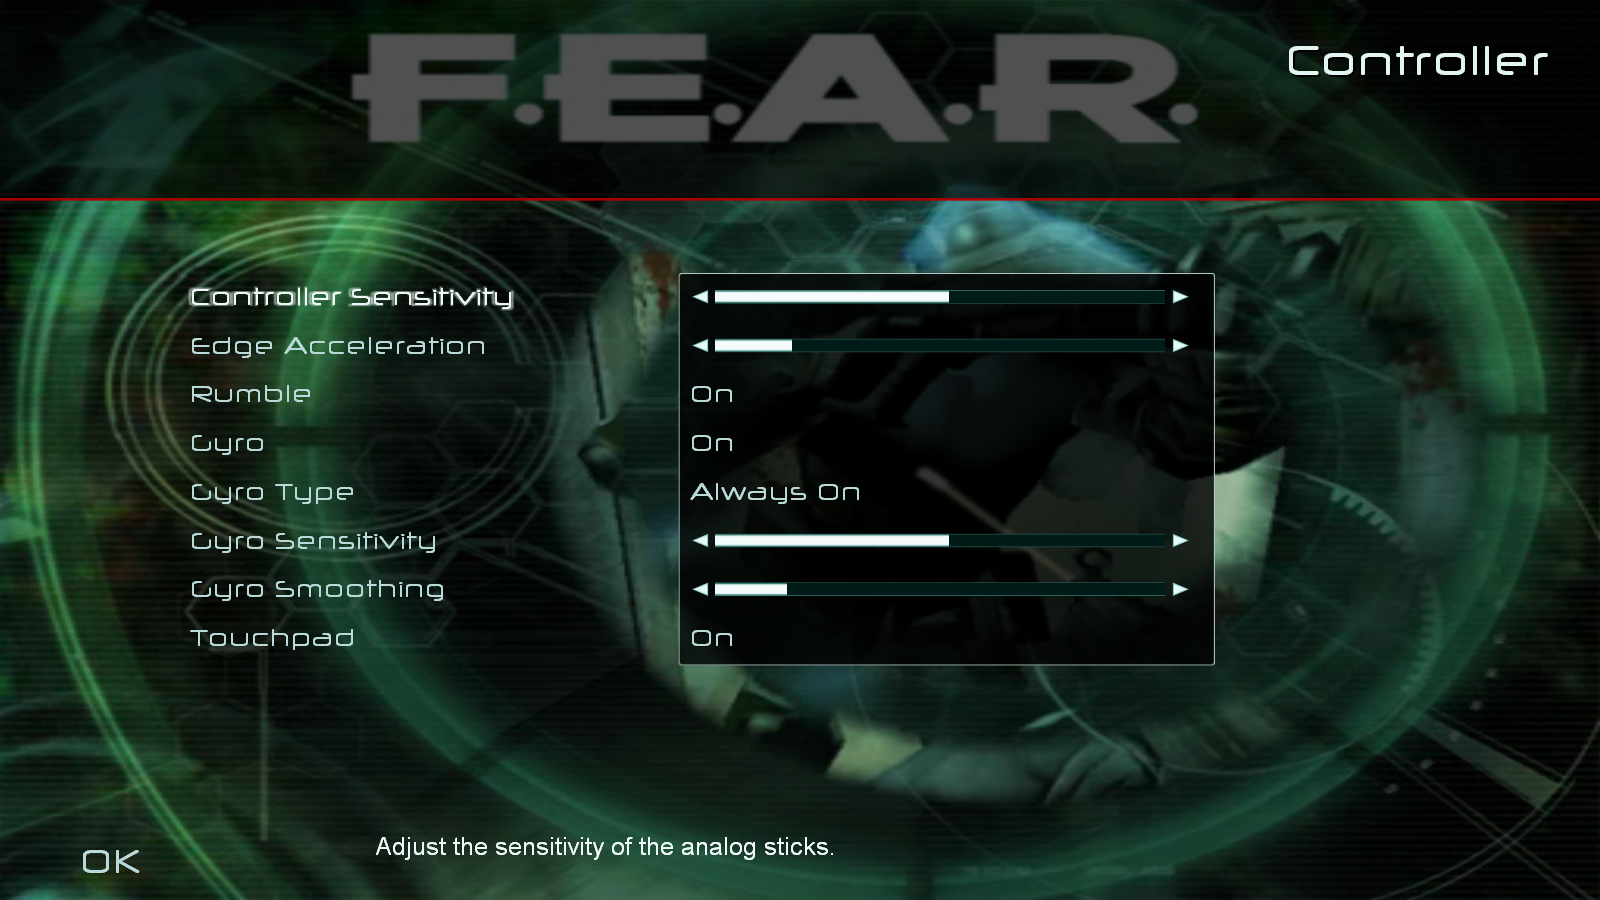
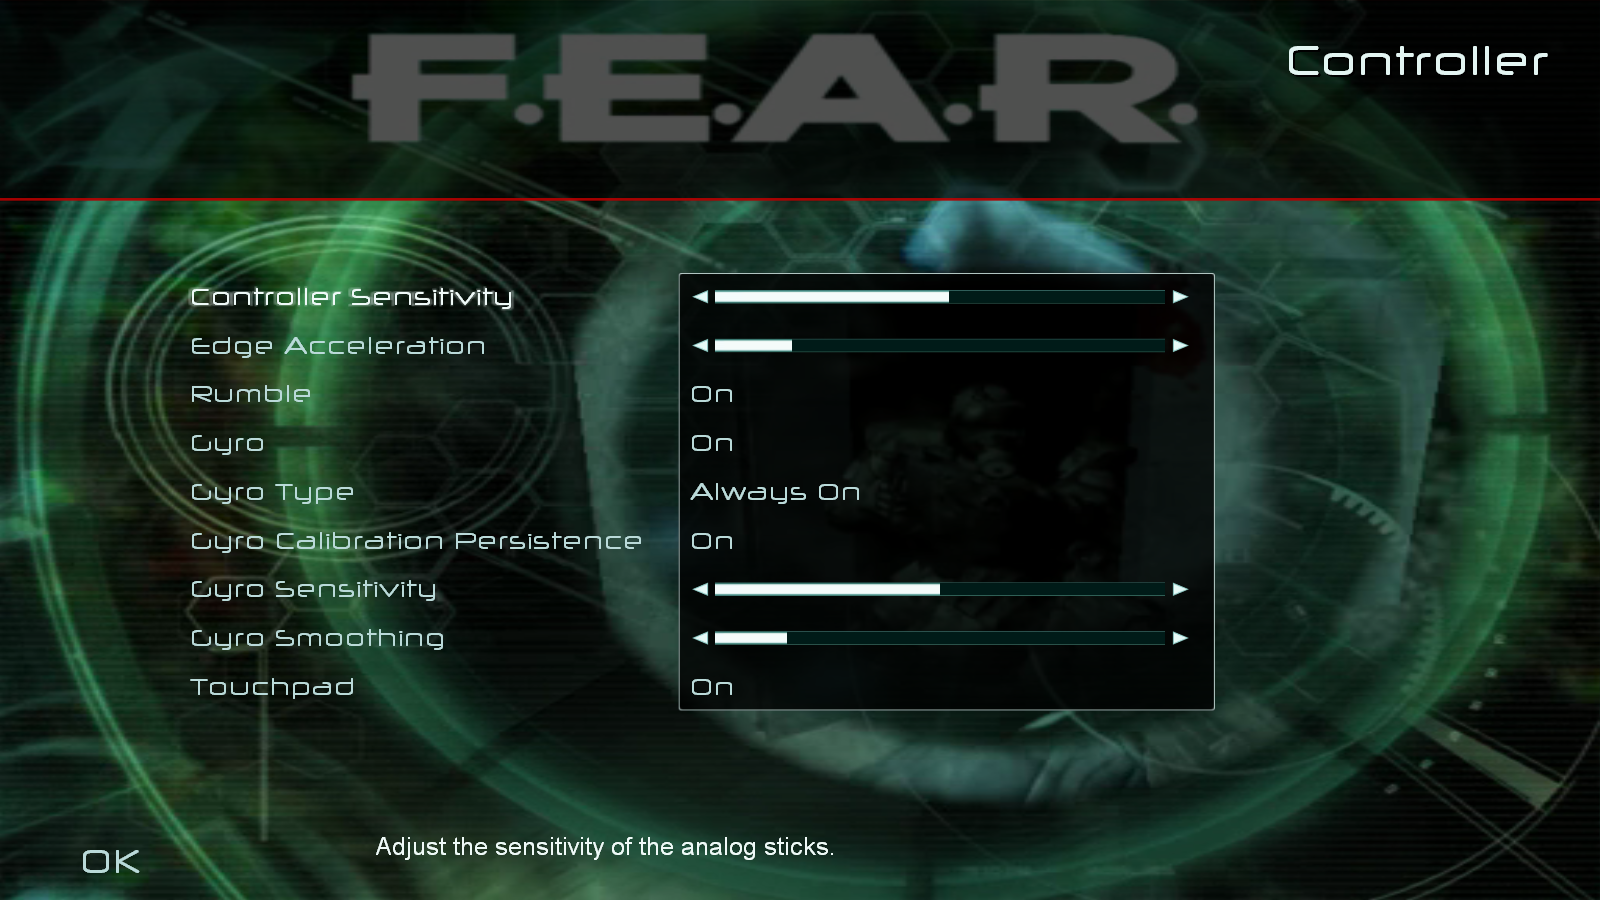
Add GyroCalibrationPersistence to ScreenJoystickHook

diff --git a/src/Client/Client.cpp b/src/Client/Client.cpp
@@ -1050,6 +1050,17 @@ static void __fastcall CycleCtrlSetSelIndex_Hook(int thisPtr, int, unsigned __in
 				IniHelper::Save();
 			}
 		}
+		else if (nameHash == HashHelper::StringHashes::IDS_HELP_GYRO_PERSISTENCE_ENABLED)
+		{
+			bool newValue = (index == 1);
+			if (newValue != GyroCalibrationPersistence)
+			{
+				GyroCalibrationPersistence = newValue;
+				SetGyroCalibrationPersistence(GyroCalibrationPersistence);
+				IniHelper::iniReader["Controller"]["GyroCalibrationPersistence"] = std::to_string(GyroCalibrationPersistence ? 1 : 0);
+				IniHelper::Save();
+			}
+		}
 		else if (nameHash == HashHelper::StringHashes::IDS_HELP_TOUCHPAD)
 		{
 			bool newValue = (index == 1);
@@ -1726,18 +1737,19 @@ static const wchar_t* __stdcall LoadGameString_Hook(int ptr, char* String)
 
 	switch (strHash)
 	{
-		case HashHelper::StringHashes::IDS_CONTROLLER_SENSITIVITY:      return L"Controller Sensitivity";
-		case HashHelper::StringHashes::IDS_EDGE_ACCELERATION:           return L"Edge Acceleration";
-		case HashHelper::StringHashes::IDS_GYRO_SENSITIVITY:            return L"Gyro Sensitivity";
-		case HashHelper::StringHashes::IDS_GYRO_SMOOTHING:              return L"Gyro Smoothing";
-		case HashHelper::StringHashes::IDS_HELP_CONTROLLER_SENSITIVITY: return L"Adjust the sensitivity of the analog sticks.";
-		case HashHelper::StringHashes::IDS_HELP_EDGE_ACCELERATION:      return L"Adjust the turn rate multiplier when the stick is pushed to the edge.";
-		case HashHelper::StringHashes::IDS_HELP_RUMBLE:                 return L"Enable or disable controller vibration feedback.";
-		case HashHelper::StringHashes::IDS_HELP_GYRO_ENABLED:           return L"Enable or disable gyroscope aiming.";
-		case HashHelper::StringHashes::IDS_HELP_GYRO_TYPE:              return L"Choose when gyro aiming is active.";
-		case HashHelper::StringHashes::IDS_HELP_GYRO_SENSITIVITY:       return L"Adjust the sensitivity of the gyroscope.";
-		case HashHelper::StringHashes::IDS_HELP_GYRO_SMOOTHING:         return L"Adjust smoothing applied to gyroscope input.";
-		case HashHelper::StringHashes::IDS_HELP_TOUCHPAD:               return L"Enable or disable touchpad functionality.";
+		case HashHelper::StringHashes::IDS_CONTROLLER_SENSITIVITY:			return L"Controller Sensitivity";
+		case HashHelper::StringHashes::IDS_EDGE_ACCELERATION:				return L"Edge Acceleration";
+		case HashHelper::StringHashes::IDS_GYRO_SENSITIVITY:				return L"Gyro Sensitivity";
+		case HashHelper::StringHashes::IDS_GYRO_SMOOTHING:					return L"Gyro Smoothing";
+		case HashHelper::StringHashes::IDS_HELP_CONTROLLER_SENSITIVITY:		return L"Adjust the sensitivity of the analog sticks.";
+		case HashHelper::StringHashes::IDS_HELP_EDGE_ACCELERATION:			return L"Adjust the turn rate multiplier when the stick is pushed to the edge.";
+		case HashHelper::StringHashes::IDS_HELP_RUMBLE:						return L"Enable or disable controller vibration feedback.";
+		case HashHelper::StringHashes::IDS_HELP_GYRO_ENABLED:				return L"Enable or disable gyroscope aiming.";
+		case HashHelper::StringHashes::IDS_HELP_GYRO_TYPE:					return L"Choose when gyro aiming is active.";
+		case HashHelper::StringHashes::IDS_HELP_GYRO_PERSISTENCE_ENABLED:   return L"Automatically save and load gyro calibration data upon reconnection.";
+		case HashHelper::StringHashes::IDS_HELP_GYRO_SENSITIVITY:			return L"Adjust the sensitivity of the gyroscope.";
+		case HashHelper::StringHashes::IDS_HELP_GYRO_SMOOTHING:				return L"Adjust smoothing applied to gyroscope input.";
+		case HashHelper::StringHashes::IDS_HELP_TOUCHPAD:					return L"Enable or disable touchpad functionality.";
 
 		case HashHelper::StringHashes::IDS_QUICKSAVE:
 			if (ShouldShowControllerPrompts())

diff --git a/src/Controller/ScreenJoystickHook.hpp b/src/Controller/ScreenJoystickHook.hpp
@@ -10,6 +10,7 @@ namespace ScreenJoystickHook
     static int g_GyroSensitivityInt = 50;
     static int g_GyroSmoothingInt = 16;
     static uint8_t g_TouchpadEnabled = 1;
+    static uint8_t g_GyroCalibrationPersistence = 1;
     static int g_ControllerSensitivityInt = 50;
     static int g_EdgeAccelerationInt = 43;
 
@@ -331,7 +332,7 @@ namespace ScreenJoystickHook
         int kGap = 200;
         int kWidth = 200;
         int fontSize = 16;
-        int numControls = 8;
+        int numControls = 9;
 
         int frameLeft = screenLeft + kGap - 5;
         int frameTop = screenTop - 5;
@@ -424,21 +425,32 @@ namespace ScreenJoystickHook
             addStringFn(gyroTypeCycle, L"Hip Fire Only");
         }
 
-        // 6. Gyro Sensitivity
+        // 6. Gyro Calibration Persistence
+        toggleStruct[1] = (int)"IDS_HELP_GYRO_PERSISTENCE_ENABLED";
+        toggleStruct[15] = (int)&g_GyroCalibrationPersistence;
+        int* gyroCalibration = CallAddToggleByName(thisPtr, L"Gyro Calibration Persistence", toggleStruct, fontSize);
+        if (gyroCalibration)
+        {
+            CallAddControl(thisPtr, gyroCalibration);
+            CallSetOnString(gyroCalibration, L"On");
+            CallSetOffString(gyroCalibration, L"Off");
+        }
+
+        // 7. Gyro Sensitivity
         sliderStruct[1] = (int)"IDS_HELP_GYRO_SENSITIVITY";
         sliderStruct[17] = 0;
         sliderStruct[18] = 100;
         sliderStruct[20] = (int)&g_GyroSensitivityInt;
         CallAddSlider(thisPtr, "IDS_GYRO_SENSITIVITY", sliderStruct, fontSize);
 
-        // 7. Gyro Smoothing
+        // 8. Gyro Smoothing
         sliderStruct[1] = (int)"IDS_HELP_GYRO_SMOOTHING";
         sliderStruct[17] = 0;
         sliderStruct[18] = 100;
         sliderStruct[20] = (int)&g_GyroSmoothingInt;
         CallAddSlider(thisPtr, "IDS_GYRO_SMOOTHING", sliderStruct, fontSize);
 
-        // 8. Touchpad
+        // 9. Touchpad
         toggleStruct[1] = (int)"IDS_HELP_TOUCHPAD";
         toggleStruct[15] = (int)&g_TouchpadEnabled;
         int* touchpadToggle = CallAddToggleByName(thisPtr, L"Touchpad", toggleStruct, fontSize);

diff --git a/src/helper.hpp b/src/helper.hpp
@@ -797,6 +797,7 @@ namespace HashHelper
 		static constexpr uint32_t IDS_HELP_RUMBLE = FNV1a("IDS_HELP_RUMBLE");
 		static constexpr uint32_t IDS_HELP_GYRO_ENABLED = FNV1a("IDS_HELP_GYRO_ENABLED");
 		static constexpr uint32_t IDS_HELP_GYRO_TYPE = FNV1a("IDS_HELP_GYRO_TYPE");
+		static constexpr uint32_t IDS_HELP_GYRO_PERSISTENCE_ENABLED = FNV1a("IDS_HELP_GYRO_PERSISTENCE_ENABLED");
 		static constexpr uint32_t IDS_HELP_GYRO_SENSITIVITY = FNV1a("IDS_HELP_GYRO_SENSITIVITY");
 		static constexpr uint32_t IDS_HELP_GYRO_SMOOTHING = FNV1a("IDS_HELP_GYRO_SMOOTHING");
 		static constexpr uint32_t IDS_HELP_TOUCHPAD = FNV1a("IDS_HELP_TOUCHPAD");
